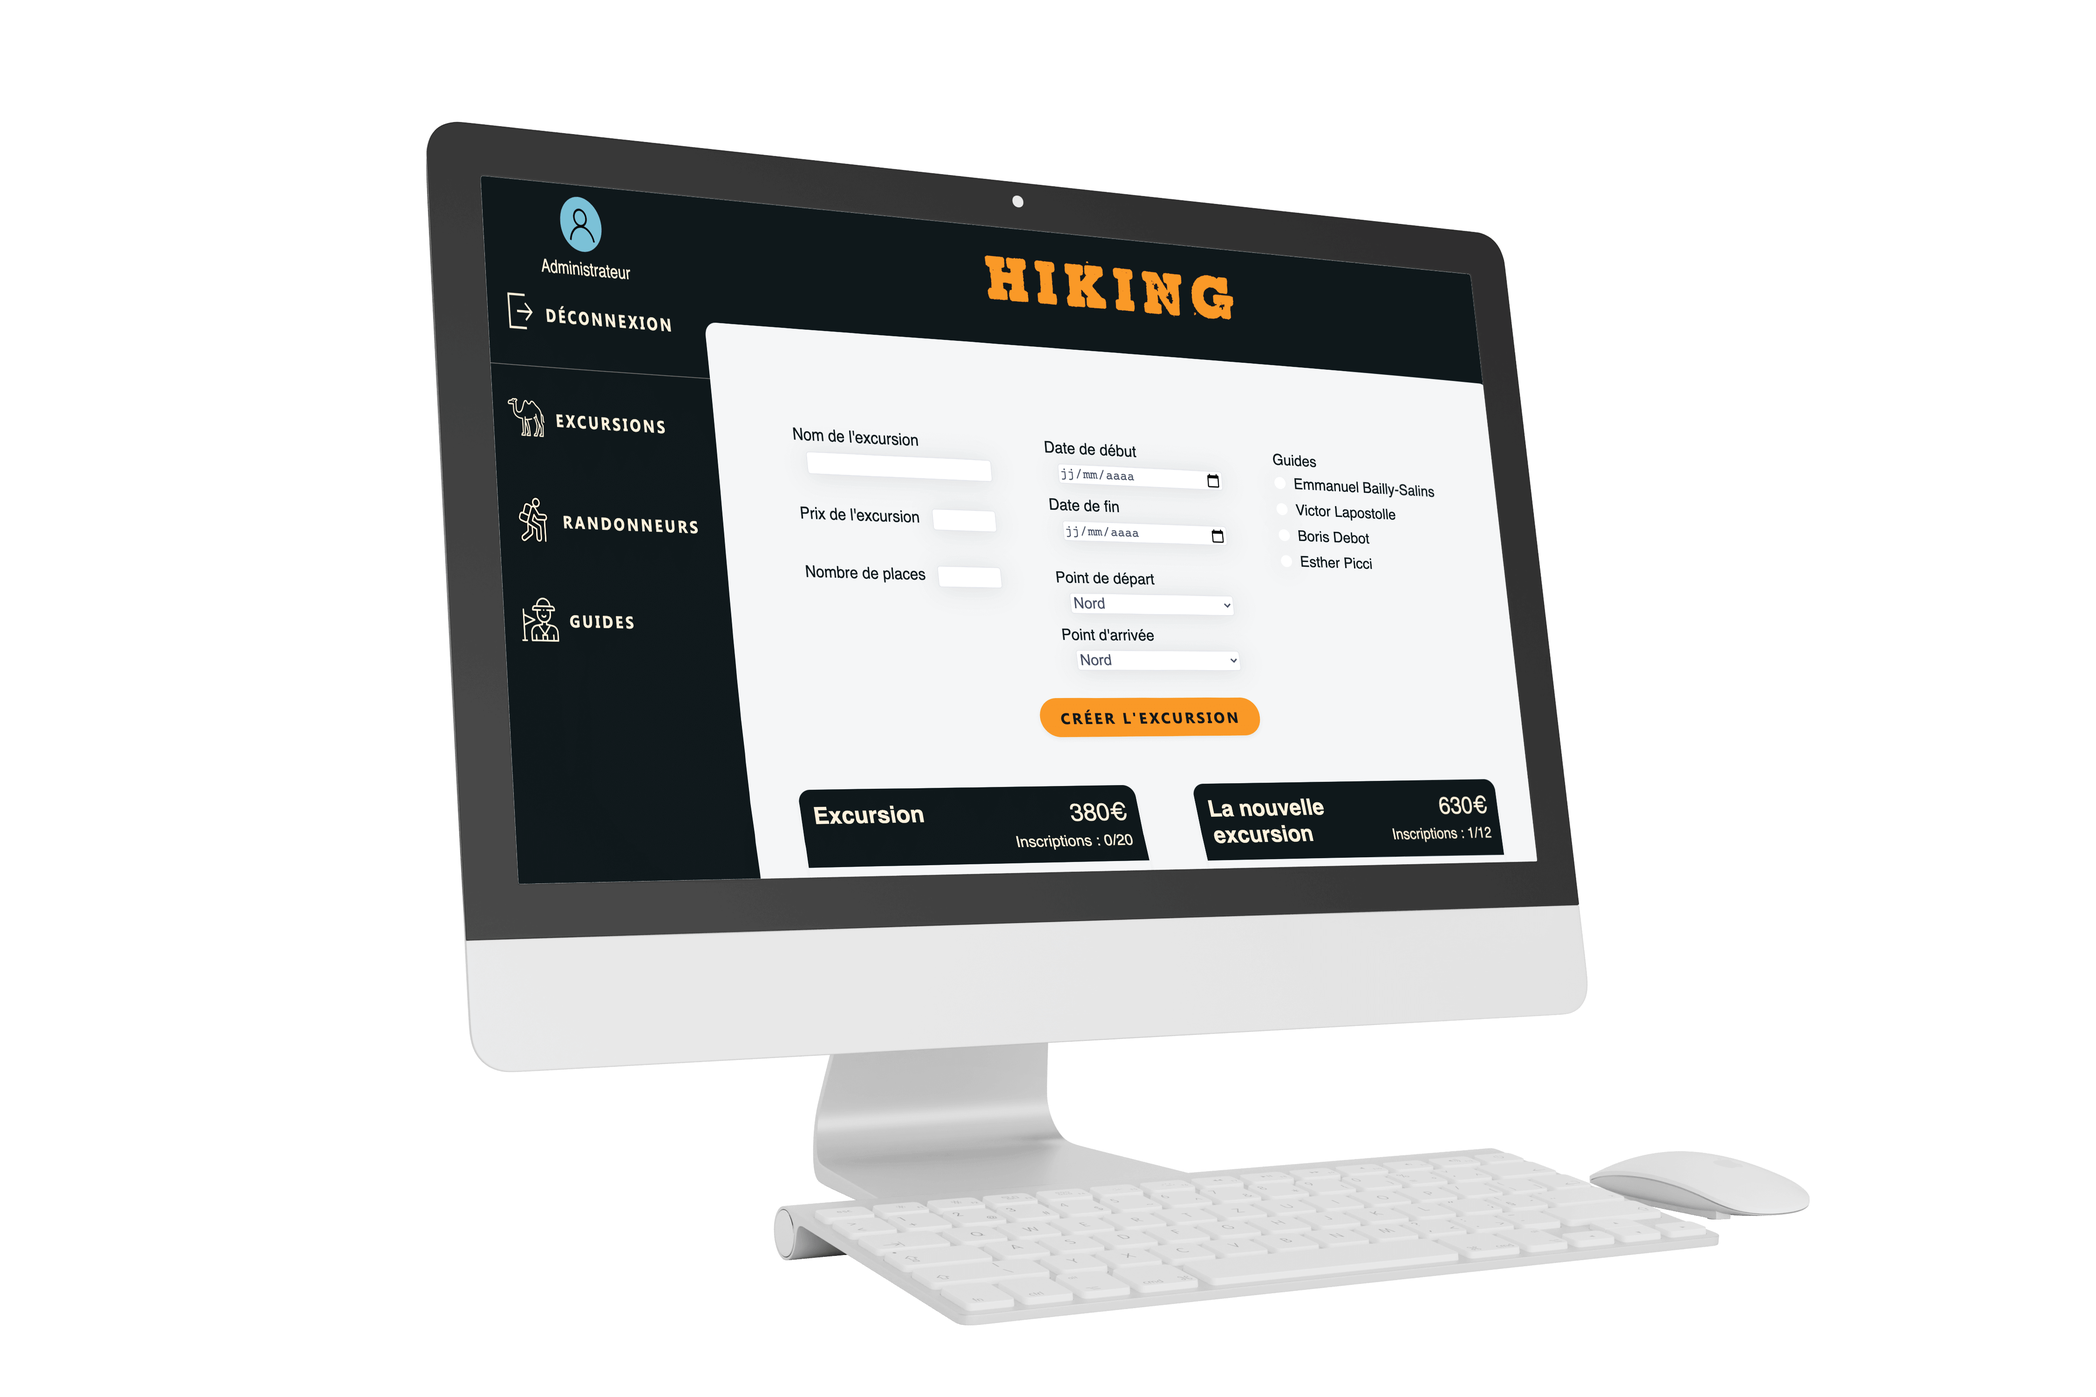
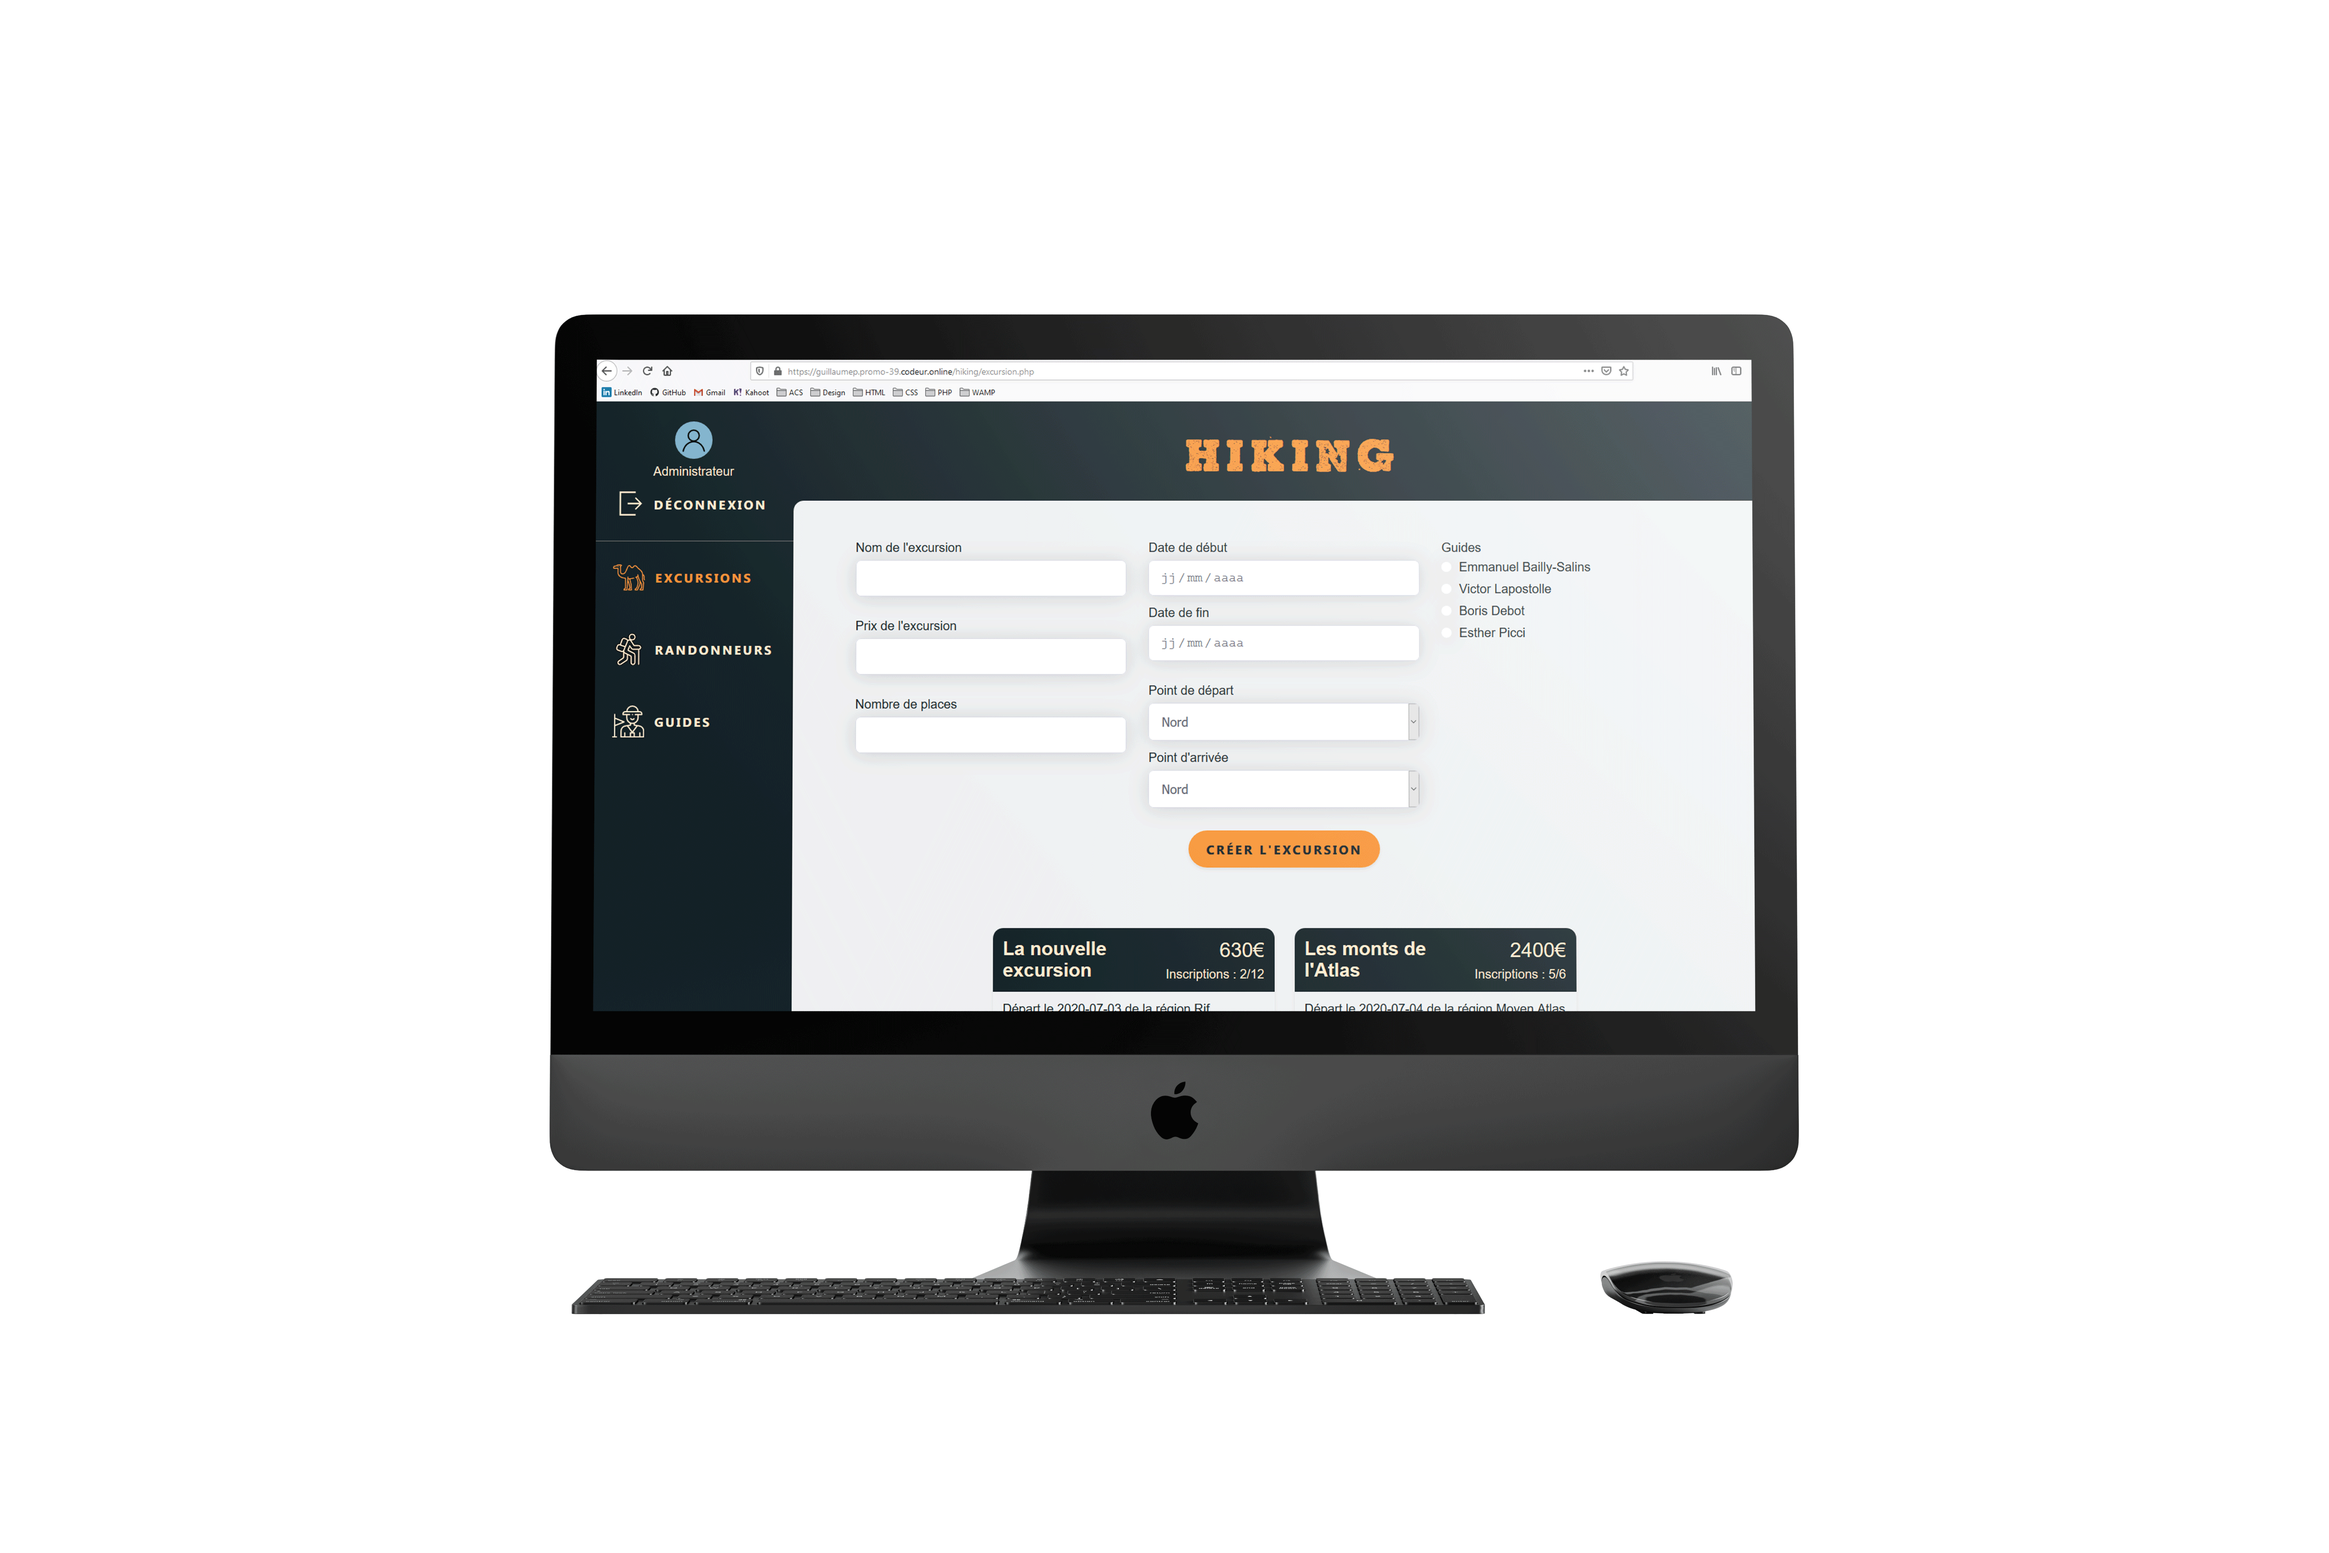
update mockups and images

Changed region(s): [[0.1867, 0.062, 0.8711, 0.961]]

diff --git a/model/Project.js b/model/Project.js
@@ -1,12 +1,14 @@
 class Project{
 
-    constructor(title, details, date, href, src, alt, coin){
+    constructor(title, details, date, href, src, alt, width, height, coin){
         this.title = title;
         this.details = details;
         this.date = date;
         this.href = href;
         this.src = src;
         this.alt = alt;
+        this.width = width;
+        this.height = height;
         this.coin = coin;
     }
 }
@@ -20,6 +22,8 @@ projects.push(new Project(
     'project-hiking.html',
     'media/project-hiking.png',
     'ordinateur avec une vue du projet hiking à l\'écran',
+    '5000',
+    '3334',
     ['Back End', 'Front End', 'C R U D', 'A J A X', 'Responsive']
 ));
 
@@ -30,6 +34,8 @@ projects.push(new Project(
     'project-portfolio.html',
     'media/project-portfolio.png',
     'ordinateur, tablette et mobile avec une vue du portfolio à l\'écran',
+    '1087',
+    '725',
     ['Wireframe', 'Intégration', 'Animations', 'Mailing', 'Responsive']
 ));
 
@@ -58,6 +64,16 @@ function fillProject(section, project){
     const alts = section.querySelectorAll('[alt]');
     alts.forEach(alt=>{
         alt.setAttribute('alt',project.alt);
+    });
+    //fill width
+    const widths = section.querySelectorAll('[width]');
+    widths.forEach(width=>{
+        width.setAttribute('width',project.width);
+    });
+    //fill height
+    const heights = section.querySelectorAll('[height]');
+    heights.forEach(height=>{
+        height.setAttribute('height',project.height);
     });
     //fill coin
     for (let i=0; i<=4; i++){

diff --git a/index.html b/index.html
@@ -194,7 +194,7 @@
 
                     <!-- project image xs -->
                     <div class="d-xl-none col-12 col-sm-12 col-md-10 offset-md-1 mb-4 mb-sm-4 mt-sm-5">
-                        <a href="#"><img src="" alt="" width="1087" height="725"></a>
+                        <a href="#"><img src="" alt="" width="" height=""></a>
                     </div>
 
                     <!-- project prev -->
@@ -212,7 +212,7 @@
                         <p id="project-carousel-coin-3" class="transparent d-flex align-items-center justify-content-center"></p>
                         <p id="project-carousel-coin-4" class="transparent d-flex align-items-center justify-content-center"></p>
 
-                        <a href="#"><img src="" alt="" width="1087" height="725"></a>
+                        <a href="#"><img src="" alt="" width="" height=""></a>
                     </div>
 
                     <!-- project next -->

diff --git a/css/style.scss b/css/style.scss
@@ -1442,15 +1442,10 @@ ul{//list reset
 //PROJECT HIKING IMAGE________________________________
 #project-hiking-image{
 	background-image: url('../media/hiking-image.png');
-	background-size: auto 100%;
+	background-repeat: no-repeat;
+	background-size: 100% auto;
 	background-position: center;
-
-	@media (max-width: 575.98px) and (orientation:portrait) {
-		min-height: 80vw;
-		width: 100vw;
-		background-size: cover;
-		background-repeat: no-repeat;
-	}
+	min-height: 56.35vw;
 }
 
 //PROJECT PORTFOLIO IMAGE_______________________________

diff --git a/project-hiking.html b/project-hiking.html
@@ -56,7 +56,7 @@
         <div class="container">
             <div id="project-home-image" class="row">
                 <div class="col-12 text-center">
-                    <img src="media/hiking-home.png" alt="ordinateur avec une vue du projet hiking à l'écran" width="1097" height="947">
+                    <img src="media/hiking-home.png" alt="ordinateur avec une vue du projet hiking à l'écran" width="5000" height="3334">
                 </div>
             </div>
         </div>
